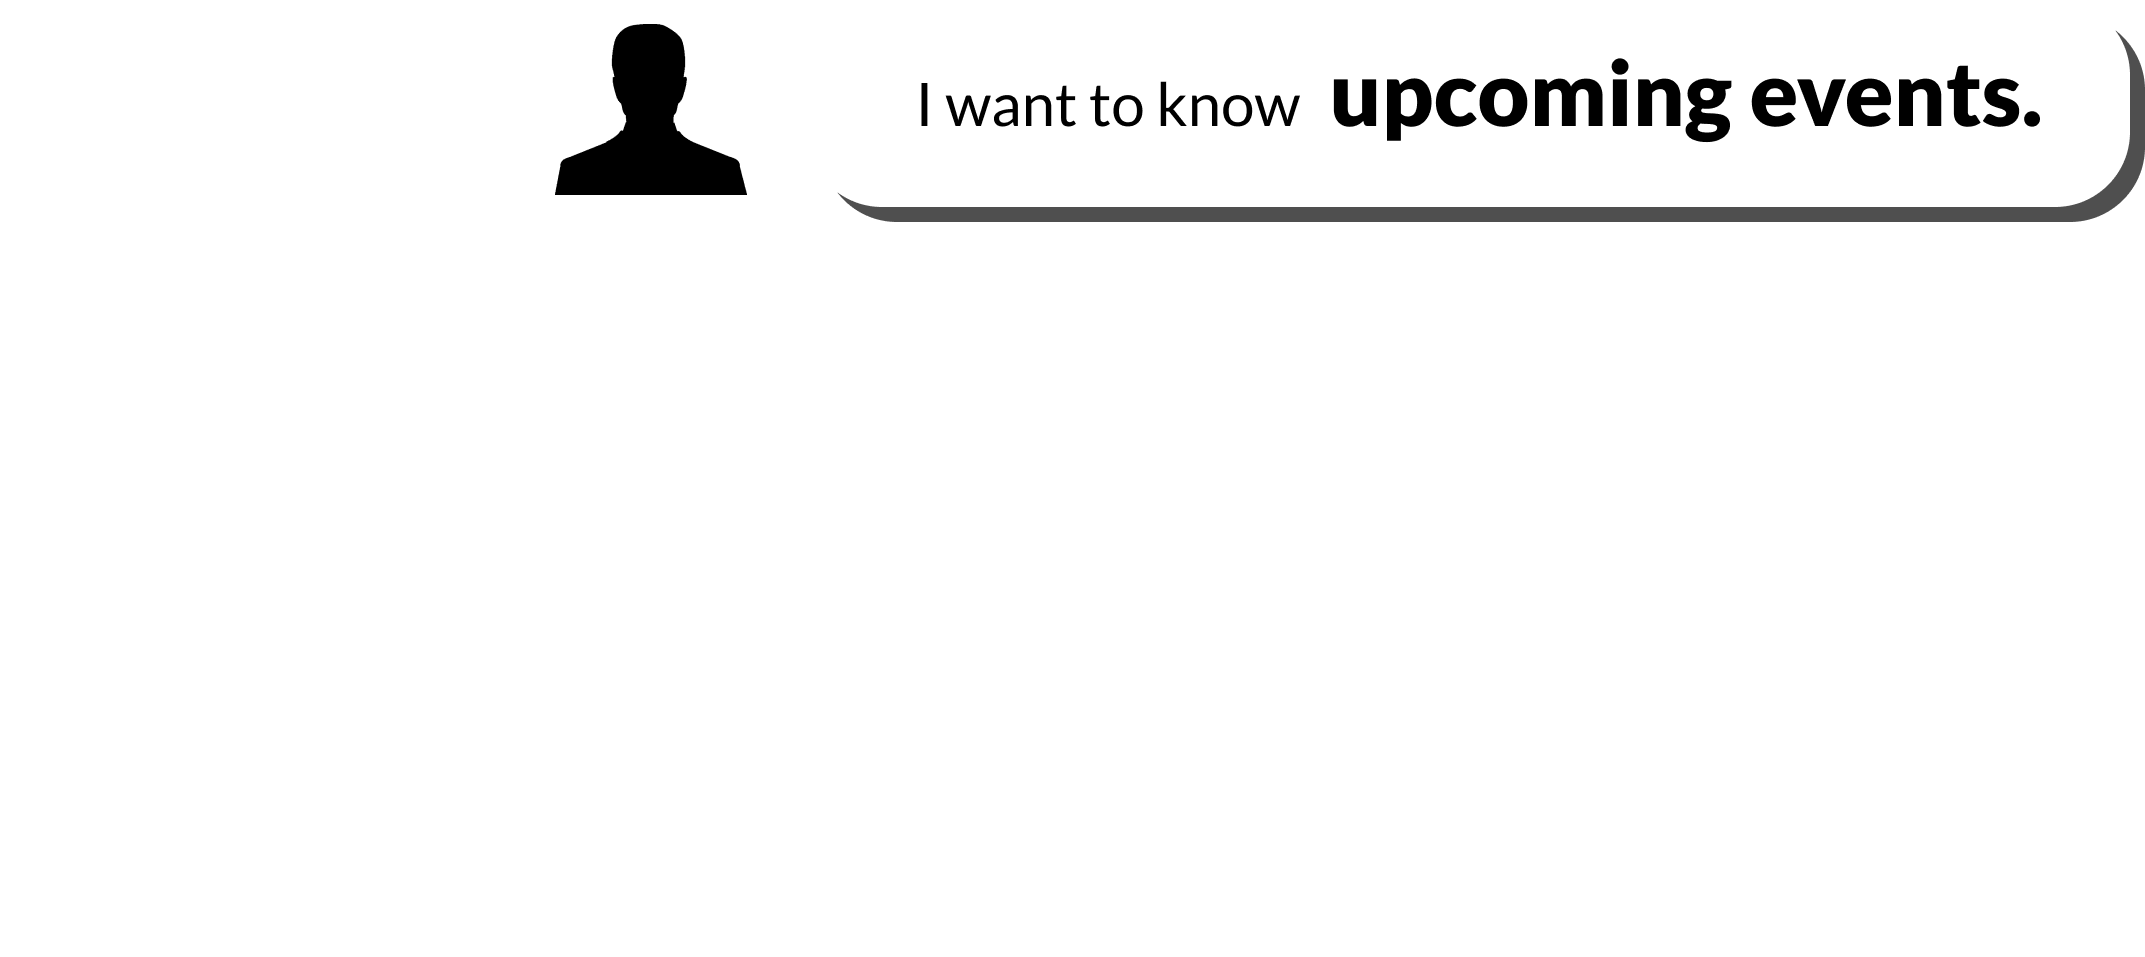
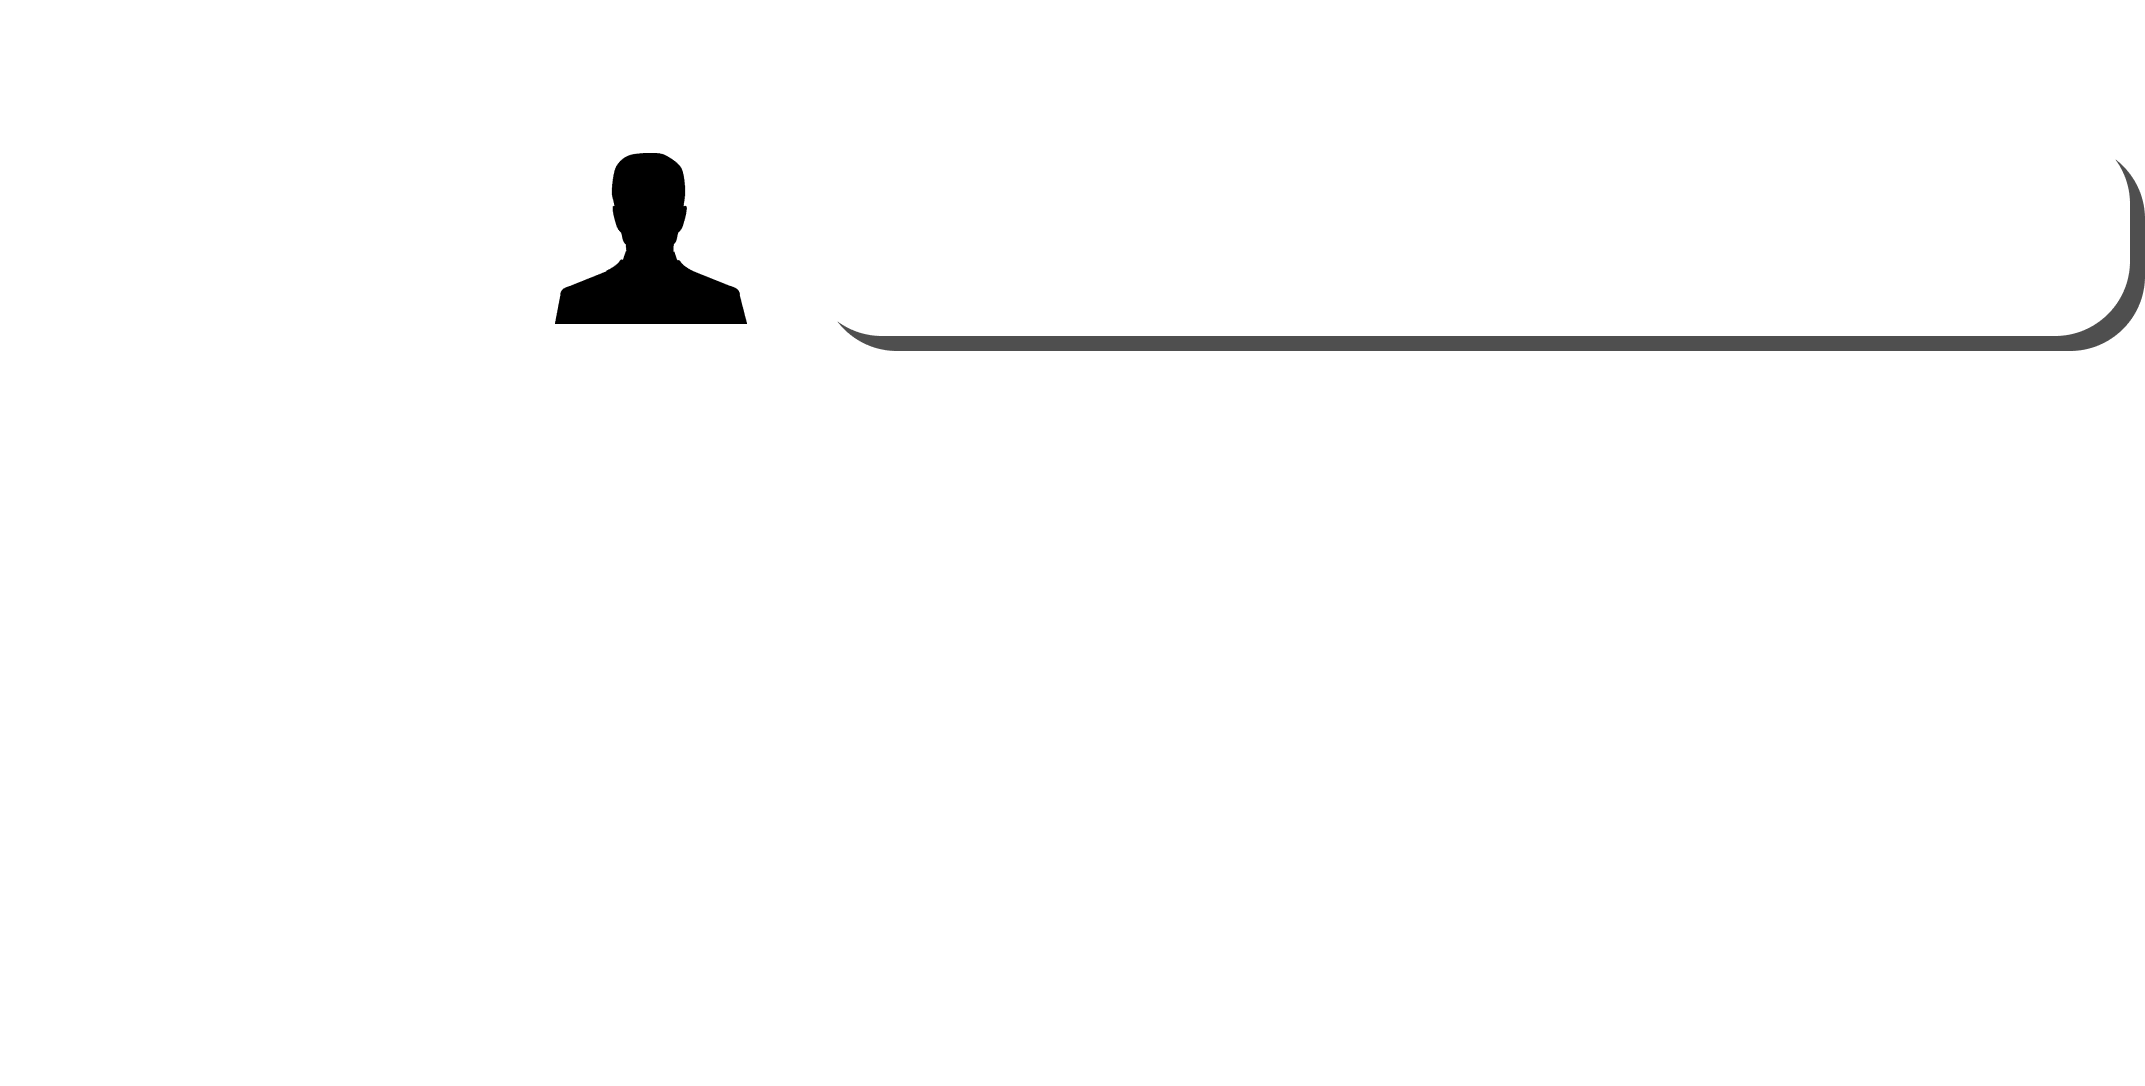
update.

Changed region(s): [[0.3748, 0.0606, 1.0, 0.3333], [0.2499, 0.0303, 0.3436, 0.303]]

diff --git a/main.js b/main.js
@@ -94,12 +94,12 @@ window.onload = function(){
     
     function loopPrefix (){
         
-        var text = $(".prefix-dynamicText");
+        var text = $(".faculty-commandText .prefix-dynamicText");
         var textIndex = -1;
-        $(".left-bubble .prefix-dynamicText").addClass("slideInLeft");
+        $(".faculty-commandText .prefix-dynamicText").addClass("slideInLeft");
         
         setTimeout(function(){
-            $(".left-bubble .prefix-dynamicText").removeClass("slideInLeft");
+            $(".faculty-commandText .prefix-dynamicText").removeClass("slideInLeft");
         }, 1000);
         
         function showNextText() {
@@ -116,12 +116,12 @@ window.onload = function(){
     
     function loopCommand (){
         
-        var text = $(".command-dynamicText");
+        var text = $(".faculty-commandText .command-dynamicText");
         var textIndex = -1;
-        $(".left-bubble .command-dynamicText").addClass("slideInLeft");
+        $(".faculty-commandText .command-dynamicText").addClass("slideInLeft");
         
         setTimeout(function(){
-            $(".left-bubble .command-dynamicText").removeClass("slideInLeft");
+            $(".faculty-commandText .command-dynamicText").removeClass("slideInLeft");
         }, 1000);
         
         function showNextText() {
@@ -135,6 +135,52 @@ window.onload = function(){
         showNextText();
         
     }
+    
+    function loopPrefix2 (){
+        
+        var text = $(".room-commandText .room-dynamicText");
+        var textIndex = -1;
+        $(".room-commandText .room-dynamicText").addClass("slideInLeft");
+        
+        setTimeout(function(){
+            $(".room-commandText .room-dynamicText").removeClass("slideInLeft");
+        }, 1000);
+        
+        function showNextText() {
+            ++textIndex;
+            text.eq(textIndex % text.length)
+                .fadeIn(500)
+                .delay(2500)
+                .fadeOut(500, showNextText);
+        }
+        
+        showNextText();
+    }
+    
+    function loopCommand2 (){
+        
+        var text = $(".room-commandText .command-dynamicText");
+        var textIndex = -1;
+        $(".room-commandText .command-dynamicText").addClass("slideInLeft");
+        
+        setTimeout(function(){
+            $(".room-commandText .command-dynamicText").removeClass("slideInLeft");
+        }, 1000);
+        
+        function showNextText() {
+            ++textIndex;
+            text.eq(textIndex % text.length)
+                .fadeIn(500)
+                .delay(3500)
+                .fadeOut(500, showNextText);
+        }
+        
+        showNextText();
+        
+    }
+    
+    
+    
     
     // Function to check if an object is empty
     function isEmpty(obj) {
@@ -434,7 +480,7 @@ window.onload = function(){
                 
                 for(var i = 0; i < duplicatesArray.length ; i++){
                      myStr = myStr + "<p>" + (i+1) + " - Room " + data.rooms[duplicatesArray[i]].roomNumber + " - " + data.rooms[duplicatesArray[i]].facultyName +"</p>";
-                    alert(duplicatesArray[i]);
+//                    alert(duplicatesArray[i]);
                 }
             }
             else{
@@ -1140,7 +1186,7 @@ window.onload = function(){
         
         var yesOrno = function(randomWord){
 
-            alert(systemAsked);
+//            alert(systemAsked);
             if(systemAsked) {
                 if(randomWord == "yes")
                     yes = true;
@@ -1179,10 +1225,10 @@ window.onload = function(){
                 return word;
         }
         var optionFunc = function(numString){
-            alert("numString: " + numString);
+//            alert("numString: " + numString);
             
             var index = convertToNumber(numString) - 1;
-            alert("index: " + index);
+//            alert("index: " + index);
             
             if(!isNaN(index)){
 //                alert("index: " + index + ", faculty length: " + possibleFaculty.length + ", room length: " + possibleRoom.length-1);
@@ -1257,8 +1303,8 @@ window.onload = function(){
          
         mainMenuCommands = {
             //instructions
-            'Instructions' : displayInstructionModal,
-            'instructions' : displayInstructionModal,
+//            'Instructions' : displayInstructionModal,
+//            'instructions' : displayInstructionModal,
             
             // Room Locator Commands
             'I am looking for room *room_num' : roomLocator,
@@ -1266,15 +1312,16 @@ window.onload = function(){
             "I'm looking for a room *room_num" : roomLocator,
             'Where is room *room_num' : roomLocator,
             'room *room_num' : roomLocator,
+            'Where\'s *room_num' : roomLocator,
             
             // Faculty Locator Commands
-            "I'm looking for mr. *name":mrChecker,
-            "I'm looking for Mr *name":mrChecker,
-            
-            "I'm looking for ms. *name":msChecker,
-            "I'm looking for Miss *name":msChecker,
-            "I'm looking for a Miss *name":msChecker,
-            "I'm looking for mrs. *name":msChecker,
+//            "I'm looking for mr. *name":mrChecker,
+//            "I'm looking for Mr *name":mrChecker,
+//            
+//            "I'm looking for ms. *name":msChecker,
+//            "I'm looking for Miss *name":msChecker,
+//            "I'm looking for a Miss *name":msChecker,
+//            "I'm looking for mrs. *name":msChecker,
             "I'm looking for dr. *name":facultyLocator,
             "I'm looking for dr *name":facultyLocator,
             "I'm looking for a professor *name":facultyLocator, 
@@ -1371,6 +1418,8 @@ window.onload = function(){
         
         loopPrefix();
         loopCommand();
+        loopPrefix2();
+        loopCommand2();
 
     });
     

diff --git a/index.html b/index.html
@@ -197,8 +197,8 @@
                     <div class="col-sm-4 left-bubble">
                         <img class="bubble animated" src="css/images/shades/left.png">
                         <div class="faculty-commandText">                            
-                            <span class="prefix-dynamicText animated">professor </span>
-                            <span class="prefix-dynamicText animated">doctor </span>
+                            <span class="prefix-dynamicText animated">professor ______ .</span>
+                            <span class="prefix-dynamicText animated">doctor ______ .</span>
 
                             
                             <span class="command-dynamicText animated">I'm looking for </span>
@@ -218,10 +218,9 @@
                     <div class="col-sm-4 center-bubble">
                         <img class="bubble animated" src="css/images/shades/center.png">
                         
-                        <div class="room-commandText">                            
-                            <span class="prefix-dynamicText animated">professor </span>
-                            <span class="prefix-dynamicText animated">doctor </span>
-
+                        <div class="room-commandText">
+                            <span class="room-dynamicText  ">room ______ .</span>
+                            <span class="room-dynamicText  ">the restroom .</span>
                             
                             <span class="command-dynamicText animated">I'm looking for </span>
                             <span class="command-dynamicText animated">Where is </span>
@@ -230,8 +229,9 @@
                     </div>
                     <div class="col-sm-4 right-bubble">
                         <img class="bubble animated" src="css/images/shades/right.png">
+                        <span class="event-dynamicText">What <span class="event-label">events</span> are coming up?</span>
                     </div>
-                    
+                        
                     <div class="clear"></div>
                 </div>
                 
@@ -314,11 +314,13 @@
                     
                 </div>
                 
+<!--
                 <div class="bottom-container instruction-container">
                     <p class="instruction-prompt txt-white">To view all commands:</p>
                     <img class="instruction-bubble" src="css/images/instruction-bubble.png"/>
                     
                 </div>
+-->
                 
                 <div class="mic-container">
                     <img id="systemMic" class="mic animated infinite pulse" />

diff --git a/css/main.css b/css/main.css
@@ -527,9 +527,9 @@ z-index: 5;
 
 .faculty-commandText{
     position: absolute;
-    right:-110px;
+    right:-160px;
     top: 216px;
-    width: 400px;
+    width: 500px;
     
 }
 
@@ -546,7 +546,7 @@ z-index: 5;
 }
 
 .faculty-commandText .prefix-dynamicText{
-    font-size: 26px;
+    font-size: 24px;
 
     
     font-weight: 900;
@@ -554,51 +554,61 @@ z-index: 5;
     float: right;
     display:none;
     position: relative;
-    margin-top: -4.5px;
+    margin-top: -4px;
     margin-left: 10px;
 
     
     width: 42%;
 }
 
-
 .room-commandText{
     position: absolute;
-    right:-110px;
-    top: 26px;
+    right:164px;
+    top: 88px;  
     width: 400px;
 }
 
-
-.room-commandText .command-dynamicText,.room-commandText .prefix-dynamicText{
+.room-commandText .command-dynamicText{
     font-size: 21px;
     font-weight: 300;
     
     float: right;
     display:none;
     position: relative;
-
-
 }
 
-.room-commandText .prefix-dynamicText{
-    font-size: 26px;
-
-    
+.room-commandText .room-dynamicText{
+    font-size: 24px;    
     font-weight: 900;
     
     float: right;
-    display:none;
+    display: none;
     position: relative;
-    margin-top: -4.5px;
+    margin-top: -1px;
     margin-left: 10px;
 
     
     width: 42%;
 }
 
+.event-dynamicText{
+    font-size: 21px;    
+/*    font-weight: 900;*/
+    
 
+/*    display: none;*/
+    position: relative;
+    top:213px;
+    margin-left: -55px;
 
+    width: 42%;
+}
 
+.event-label{
+    font-size: 24px;    
+    font-weight: 900;
+    margin: 0 6px 0 6px;
+    
+}
 
 
